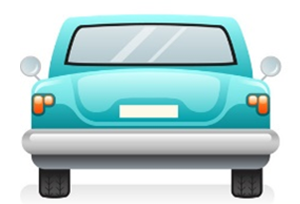
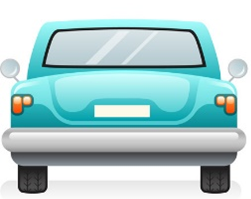
services table fix

diff --git a/source/forms/OrderForm/OrderFormTables/ServicesTable/index.js b/source/forms/OrderForm/OrderFormTables/ServicesTable/index.js
@@ -103,11 +103,29 @@ class ServicesTable extends Component {
         }
     };
 
+    _laborIdToServiceName = (laborId) => {
+        if(!laborId) {
+            return;
+        }
+        const { allServices } = this.props;
+        const service = allServices.find((elem)=>elem.laborId == laborId);
+        return service ? service.name : laborId;
+    }
+
+    _serviceNameToLaborId = (serviceName) => {
+        if(!serviceName) {
+            return;
+        }
+        const { allServices } = this.props;
+        const service = allServices.find((elem)=>elem.name == serviceName);
+        return service ? service.laborId : serviceName;
+    }
+
     _getServicesOptions() {
         return _.get(this.props, 'allServices', []).map(
-            ({ id, type, serviceName }, index) => (
-                <Option value={ `${type}|${id}` } key={ `allServices-${index}` }>
-                    { serviceName }
+            ({ laborId, masterLaborId, productId, name }, index) => (
+                <Option value={ name } key={ `allServices-${index}` }>
+                    { name }
                 </Option>
             ),
         );
@@ -156,8 +174,11 @@ class ServicesTable extends Component {
                             hiddeninput="hiddeninput"
                             errors={ errors }
                             defaultGetValueProps
-                            fieldValue={ _.get(fields, `services[${key}].laborId`) }
-                            initialValue={ this._getDefaultValue(key, 'laborId') }
+                            fieldValue={ this._serviceNameToLaborId(
+                                _.get(fields, `services[${key}].laborId`)
+                                )
+                            }
+                            initialValue={ this._serviceNameToLaborId(this._getDefaultValue(key, 'laborId')) }
                             field={ `services[${key}].laborId` }
                             getFieldDecorator={ getFieldDecorator }
                         />
@@ -196,16 +217,22 @@ class ServicesTable extends Component {
                         <DecoratedAutoComplete
                             errors={ errors }
                             defaultGetValueProps
-                            fieldValue={ _.get(
-                                fields,
-                                `services[${key}].serviceName`,
-                            ) }
+                            fieldValue={
+                                _.get(fields, `services[${key}].serviceName`)
+                            }
                             disabled={ editServicesForbidden || confirmed.length }
-                            onSelect={ value =>
-                                this._onServiceSelect(
-                                    value,
-                                    _.get(fields, `services[${key}].ownDetail`),
-                                )
+                            onSelect={ value => {
+                                    this.props.form.setFieldsValue({
+                                        [`services[${key}].serviceName`]: value,
+                                        [`services[${key}].laborId`]: this._serviceNameToLaborId(value),
+                                    });
+                                    console.log(fields);
+
+                                    this._onServiceSelect(
+                                        value,
+                                        false, //_.get(fields, `services[${key}].ownDetail`),
+                                    );
+                                }
                             }
                             field={ `services[${key}].serviceName` }
                             getFieldDecorator={ getFieldDecorator }
@@ -217,7 +244,7 @@ class ServicesTable extends Component {
                             initialValue={ this._getDefaultValue(
                                 key,
                                 'serviceName',
-                            ) }
+                            )}
                             placeholder={ serviceSelectPlaceholder }
                             dropdownMatchSelectWidth={ false }
                             // dropdownStyle={ { width: '70%' } }
@@ -238,14 +265,15 @@ class ServicesTable extends Component {
                         <DecoratedInputNumber
                             errors={ errors }
                             defaultGetValueProps
-                            fieldValue={ _.get(fields, `services[${key}].primeCost`, servicePrice) }
-                            initialValue={ this._getDefaultValue(key, 'primeCost') || servicePrice }
+                            fieldValue={ _.get(fields, `services[${key}].primeCost`) }
+                            initialValue={ this._getDefaultValue(key, 'primeCost') }
                             field={ `services[${key}].primeCost` }
                             disabled={
                                 this._isFieldDisabled(key) || editServicesForbidden || confirmed=="REJECTED"
                             }
                             getFieldDecorator={ this.props.form.getFieldDecorator }
                             min={ 0 }
+                            step={0.1}
                         />
                     )
                 }
@@ -446,9 +474,8 @@ class ServicesTable extends Component {
             return;
         }
         const baseService = this.props.allServices.find(
-            ({ serviceId, type }) => `${type}|${serviceId}` === serviceName,
+            (service) => service.name === serviceName,
         );
-
         return _.get(baseService, 'servicePrice');
     };
 
@@ -458,23 +485,28 @@ class ServicesTable extends Component {
         const orderService = (this.props.orderServices || [])[ key ];
         const allServices = this.props.allServices;
         if (!orderService) {
+            /*const laborId = _.get(this.props, `services[${key}].serviceName`);
+            if(laborId) {
+                const service = this._laborIdToServiceName(laborId);
+
+                const actions = {
+                    serviceName:  service.name,
+                    serviceHours: undefined,
+                    servicePrice: undefined,
+                    ownDetail:    undefined,
+                    employeeId:   undefined,
+                    laborId:      service.laborId,
+                    agreement:    "UNDEFINED",
+                };
+        
+                return actions[ fieldName ];
+            }*/
             return;
         }
 
-        const resolveServiceId = (type, serviceId, name) =>
-            _.find(allServices, { type, serviceId })
-                ? `${type}|${serviceId}`
-                : name;
 
         const actions = {
-            serviceName:
-                orderService.type !== 'custom'
-                    ? resolveServiceId(
-                        orderService.type,
-                        orderService.serviceId,
-                        orderService.serviceName,
-                    )
-                    : orderService.serviceName,
+            serviceName:  orderService.serviceName,
             serviceHours: orderService.hours,
             servicePrice: orderService.price,
             ownDetail:    orderService.ownDetail,
@@ -482,7 +514,6 @@ class ServicesTable extends Component {
             laborId:      orderService.laborId,
             agreement:    orderService.agreement,
         };
-
         return actions[ fieldName ];
     };
 

diff --git a/source/forms/OrderForm/OrderFormTables/DiagnosticTable/index.js b/source/forms/OrderForm/OrderFormTables/DiagnosticTable/index.js
@@ -1428,7 +1428,7 @@ class CommentaryButton extends React.Component{
                                 height: "160px",
                                 position: "relative",
                                 backgroundImage: `url('${images.vehicleSchemeSide}')`,
-                                backgroundSize: "cover",
+                                backgroundSize: "contain",
                                 backgroundPosition: "center",
                                 backgroundRepeat: "no-repeat",
                             }}>
@@ -1467,7 +1467,7 @@ class CommentaryButton extends React.Component{
                                     height: "160px",
                                     position: "relative",
                                     backgroundImage: `url('${images.vehicleSchemeFront}')`,
-                                    backgroundSize: "cover",
+                                    backgroundSize: "contain",
                                     backgroundPosition: "center",
                                     backgroundRepeat: "no-repeat",
                                 }}>
@@ -1498,7 +1498,7 @@ class CommentaryButton extends React.Component{
                                     height: "160px",
                                     position: "relative",
                                     backgroundImage: `url('${images.vehicleSchemeBack}')`,
-                                    backgroundSize: "cover",
+                                    backgroundSize: "contain",
                                     backgroundPosition: "center",
                                     backgroundRepeat: "no-repeat",
                                 }}>

diff --git a/source/modals/ConfirmDiagnosticModal/index.js b/source/modals/ConfirmDiagnosticModal/index.js
@@ -37,10 +37,10 @@ class ConfirmDiagnosticModal extends React.Component{
 
     async endСonfirmation(orderId, data) {
         await confirmDiagnostic(orderId, data);
-        //await lockDiagnostic(orderId);
+        await lockDiagnostic(orderId);
         await this.props.reloadOrderPageComponents();
-        //createAgreement(this.props.orderId, this.props.intl.locale);
-        //await window.location.reload();
+        createAgreement(this.props.orderId, this.props.intl.locale);
+        await window.location.reload();
     }
 
     showModal = () => {
@@ -58,10 +58,13 @@ class ConfirmDiagnosticModal extends React.Component{
         }
         this.state.servicesList.map((element)=>{
             if(element.checked && element.laborId != null) {
+                let comment = {
+                    comment: element.comment,
+                }
                 data.services.push({
                     serviceId: element.laborId,
                     serviceHours: element.hours,
-                    comment: element.comment,
+                    comment: comment,
                 })
             }
         });
@@ -69,7 +72,7 @@ class ConfirmDiagnosticModal extends React.Component{
             if(element.checked && element.id != null) {
                 data.details.push({
                     storeGroupId: element.id,
-                    count: element.count
+                    count: element.count,
                 })
             }
         });

diff --git a/source/forms/OrderForm/extractOrderEntity.js b/source/forms/OrderForm/extractOrderEntity.js
@@ -13,6 +13,7 @@ export function convertFieldsValuesToDbEntity(
     status = 'not_complete',
     user,
 ) {
+    console.log(orderFields);
     const services = _(orderFields.services)
         .filter(Boolean)
         .filter(service => _.get(service, 'serviceName'))
@@ -36,17 +37,18 @@ export function convertFieldsValuesToDbEntity(
             const serviceType = !serviceConfig
                 ? { type: 'custom', serviceName: name }
                 : { type: name.split('|')[ 0 ], serviceId: name.split('|')[ 1 ] };
+            
+            var result = {};
 
-            return {
-                serviceId: laborId,
-                agreement: agreement,
-                serviceName: name,
-                serviceHours: hours,
-                employeeId: employeeId,
-                /* Marian services table fix / save button fix
-                ...baseService,
-                ...serviceType */
-            };
+            if(name) result.serviceName = name;
+            if(laborId) result.serviceId = laborId;
+            if(price) result.servicePrice = price;
+            if(employeeId) result.employeeId = employeeId;
+            if(hours) result.serviceHours = hours;
+            if(agreement) result.agreement = agreement;
+            console.log(result);
+
+            return result
         })
         .value();
         console.log(services);

diff --git a/source/forms/OrderForm/OrderFormTables/DetailsTable/index.js b/source/forms/OrderForm/OrderFormTables/DetailsTable/index.js
@@ -92,6 +92,7 @@ export default class DetailsTable extends Component {
             },
         ];
 
+        console.log(this.props.allDetails);
         this.details = this.props.allDetails.details.map(
             ({ detailId, detailName }) => (
                 <Option value={String(detailId)} key={`allDetails-${detailId}`}>
@@ -101,7 +102,7 @@ export default class DetailsTable extends Component {
         );
 
         this.brands = this.props.allDetails.brands.map(
-            ({ brandId, brandName }) => (
+            ({ supplierId, brandId, brandName }) => (
                 <Option value={String(brandId)} key={`allBrands-${brandId}`}>
                     {brandName}
                 </Option>

diff --git a/source/pages/OrderPage/index.js b/source/pages/OrderPage/index.js
@@ -89,10 +89,6 @@ const mapStateToProps = state => {
     return {
         // orderTaskEntity:       state.forms.orderTaskForm.fields, 
         // addClientFormData:     state.forms.addClientForm.data,
-        //Marian service detail table fix
-        //
-        //allDetails:            state.forms.orderForm.allStoreGroups,
-        //allServices:           state.forms.orderForm.allLabors,
         allDetails:            state.forms.orderForm.allDetails,
         allServices:           state.forms.orderForm.allServices,
         clients:               state.forms.orderForm.clients,

diff --git a/source/forms/OrderForm/OrderFormTabs/index.js b/source/forms/OrderForm/OrderFormTabs/index.js
@@ -243,6 +243,7 @@ export default class OrderFormTabs extends React.PureComponent {
                         allServices={allServices}
                         orderServices={orderServices}
                         user={user}
+                        fetchedOrder={fetchedOrder}
                         selectedClient={selectedClient}
                         fetchTecdocSuggestions={fetchTecdocSuggestions}
                         completedDiagnostic={orderDiagnostic? orderDiagnostic.completed : null}

diff --git a/source/pages/AgreementPage/index.js b/source/pages/AgreementPage/index.js
@@ -75,6 +75,7 @@ class AgreementPage extends Component {
     updateData(data) {
         this.state.servicesList = data.labors.map((elem)=>{
             elem.checked = true;
+            elem.comment = elem.comment.comment;
             return elem;
         });
         this.state.detailsList = data.details.map((elem)=>{
